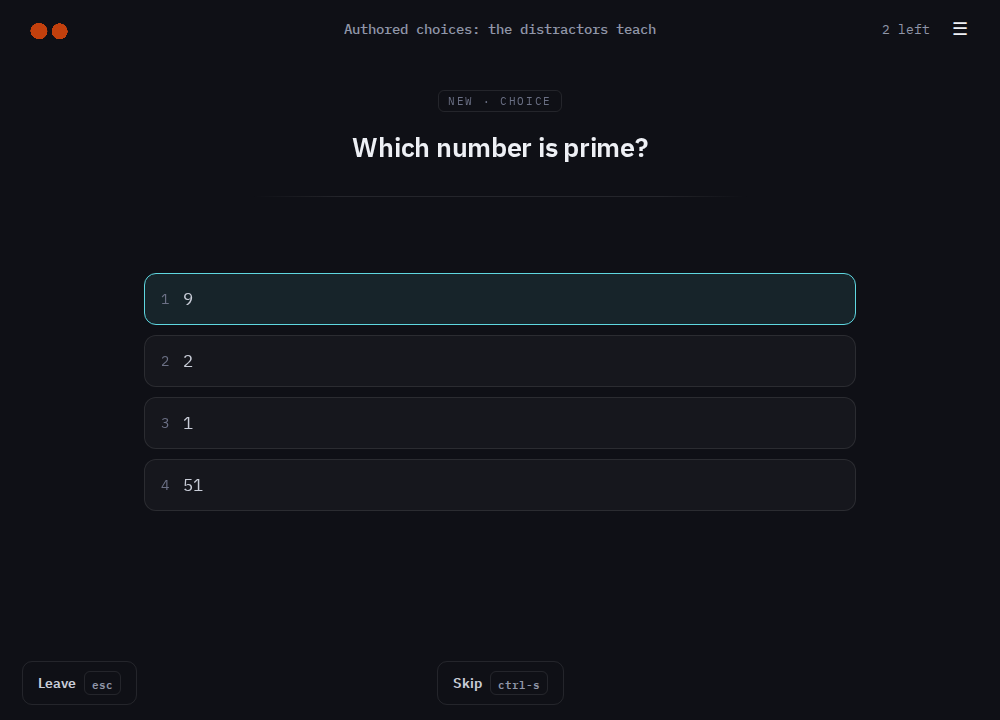
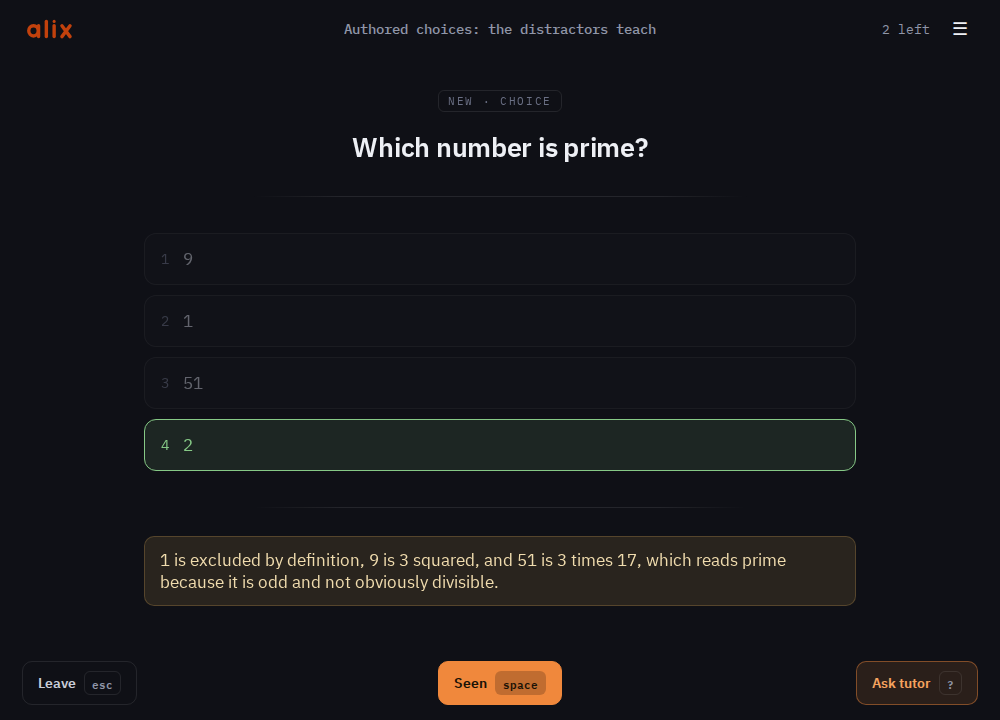
fix(examples): photograph the card a reader would learn from
Every choice example was shot with the keyboard cursor resting on option
1, which reads as the selected answer. The prime card highlighted 9, and
the table card paired "to advocate" with "widerlegen", teaching the
opposite of what the deck says. The capture now answers the card and
photographs the graded state: the correct option marked, the note that
explains each distractor visible, and nothing for the eye to mistake.

Two ways to know which option is right, because there are two kinds of
choice card. An authored one marks it with `- [x]`. A table card's
answer is its question's own row partner, and the distractors come from
other rows, so exactly one option shares a row with the question. Both
match on text, which survives the per-session option shuffle. A formula
reaches the page as SVG paths, so its aria-label carries the comparison.

Every image was also captured 300ms after load, while the header logo
was still mid-division, because a fixed pause guesses at an animation it
cannot see. Shooting until two consecutive frames are identical settles
whatever is moving.

A `reveal: line` deck is now revealed before the shot, so the steps show
rather than an empty answer region, and the capture fails if that answer
is not multi-line. The picture still shows the acquire presentation: the
directive takes effect at Recall (depth::check_for), and a freshly
copied deck has no progress to reach it.

Adds a cloze-in-a-formula example, which had no picture anywhere, and
[…]

diff --git a/tests/example_decks.rs b/tests/example_decks.rs
@@ -47,22 +47,31 @@ fn workspace_showcase_example_still_checks() {
     doctor_example("docs/examples/workspace-showcase/decks/ownership-move.md");
 }
 
-/// One deck per row of `docs/card-shapes.md`. Doctor proves each parses;
-/// that each still PRODUCES the shape it advertises is asserted through the
-/// API in `tests/api.rs`, because a file that parses can still teach the
-/// wrong thing.
+fn example_decks(set: &str) -> Vec<String> {
+    let dir = Path::new(env!("CARGO_MANIFEST_DIR")).join(format!("docs/examples/{set}"));
+    let mut decks = std::fs::read_dir(&dir)
+        .unwrap_or_else(|e| panic!("cannot read {}: {e}", dir.display()))
+        .map(|entry| entry.expect("unreadable entry").file_name())
+        .filter_map(|name| name.to_str().map(str::to_owned))
+        .filter(|name| name.ends_with(".md"))
+        .collect::<Vec<_>>();
+    decks.sort();
+    decks
+}
+
+/// Swept rather than listed: an example added to either set is checked by
+/// existing here, which is what the examples README promises. Doctor proves
+/// each parses; that a shape example still PRODUCES the shape it advertises
+/// is asserted through the API in `tests/api.rs`, because a file that parses
+/// can still teach the wrong thing.
 #[test]
-fn every_shape_example_still_checks() {
-    for shape in [
-        "table",
-        "reveal-line",
-        "draw",
-        "cloze",
-        "authored-choices",
-        "direction-both",
-        "plain",
-    ] {
-        doctor_example(&format!("docs/examples/shapes/{shape}.md"));
+fn every_example_deck_still_checks() {
+    for set in ["shapes", "syntax"] {
+        let decks = example_decks(set);
+        assert!(!decks.is_empty(), "docs/examples/{set} has no decks");
+        for deck in decks {
+            doctor_example(&format!("docs/examples/{set}/{deck}"));
+        }
     }
 }
 

diff --git a/CHANGELOG.md b/CHANGELOG.md
@@ -8,6 +8,9 @@ adheres to [Semantic Versioning](https://semver.org/spec/v2.0.0.html).
 
 ### Added
 
+- The example decks gained one for cloze inside a formula, showing that
+  `\blank{...}` works within `$...$` and `$$...$$`.
+
 - Deck authoring has a written rule for which card shape suits which
   material, and one worked example per shape. `docs/card-shapes.md`
   marks each row structural (the material has a property the shape
@@ -127,6 +130,13 @@ adheres to [Semantic Versioning](https://semver.org/spec/v2.0.0.html).
   instead of being constrained.
 
 ### Fixed
+
+- The example images now show the card as the reader should read it. A
+  choice example is photographed answered, because the cursor rests on
+  option 1 and a picture of that reads as if option 1 were the answer:
+  the table example appeared to pair "to advocate" with "widerlegen".
+  Every image also waited on a fixed pause that expired before the header
+  logo finished forming, so all of them were captured mid-animation.
 
 - The summary's "Next due in N min" counts down while the page stays open
   instead of freezing at the value it had when the sitting ended.

diff --git a/docs/examples/syntax/math-cloze.md b/docs/examples/syntax/math-cloze.md
@@ -1,0 +1,27 @@
+---
+format-version: 1
+id: "deck-12x3e6yg9qkhxfjwgg9q4gwp7x"
+---
+
+# Cloze inside a formula
+
+`\blank{...}` works inside `$...$` and `$$...$$`. The hidden span is a
+piece of the formula, so what is asked is the step, not the sentence
+around it.
+
+## The quadratic formula
+$$x = \frac{-b \blank{\pm} \sqrt{b^2 - 4ac}}{2a}$$
+> One blank, one sub-card. Blanking the whole numerator would ask for
+> recall of the formula; blanking the sign asks for the part that is
+> actually forgotten.
+<!-- id: card-798bv2regxndcd0the8my59mb4 -->
+
+## Euler's identity
+$e^{i\pi} + \blank{1} = 0$
+<!-- id: card-1ngfgr2bhw76mynyyappyt5m69 -->
+
+## The derivative of a power
+$$\frac{d}{dx}x^n = \blank{n} x^{\blank{n-1}}$$
+> Two blanks, two sub-cards, drilled separately. The exponent rule fails
+> in two different places, so it is worth separating them.
+<!-- id: card-6t775j2bw9ymbjky9g9bsy8zne -->
